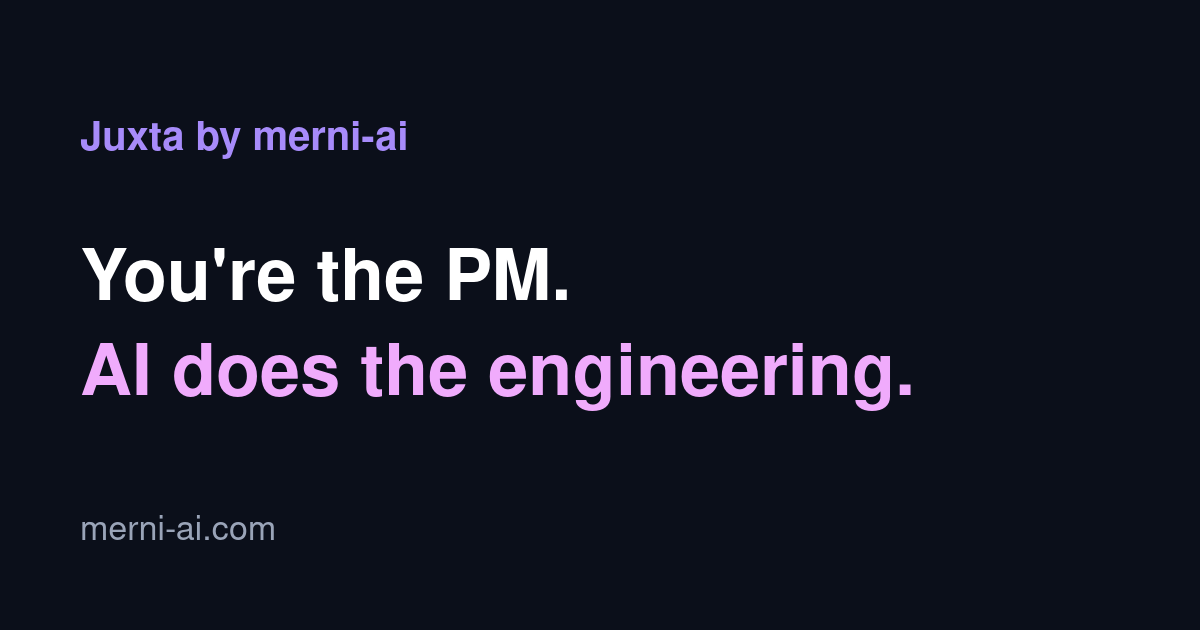
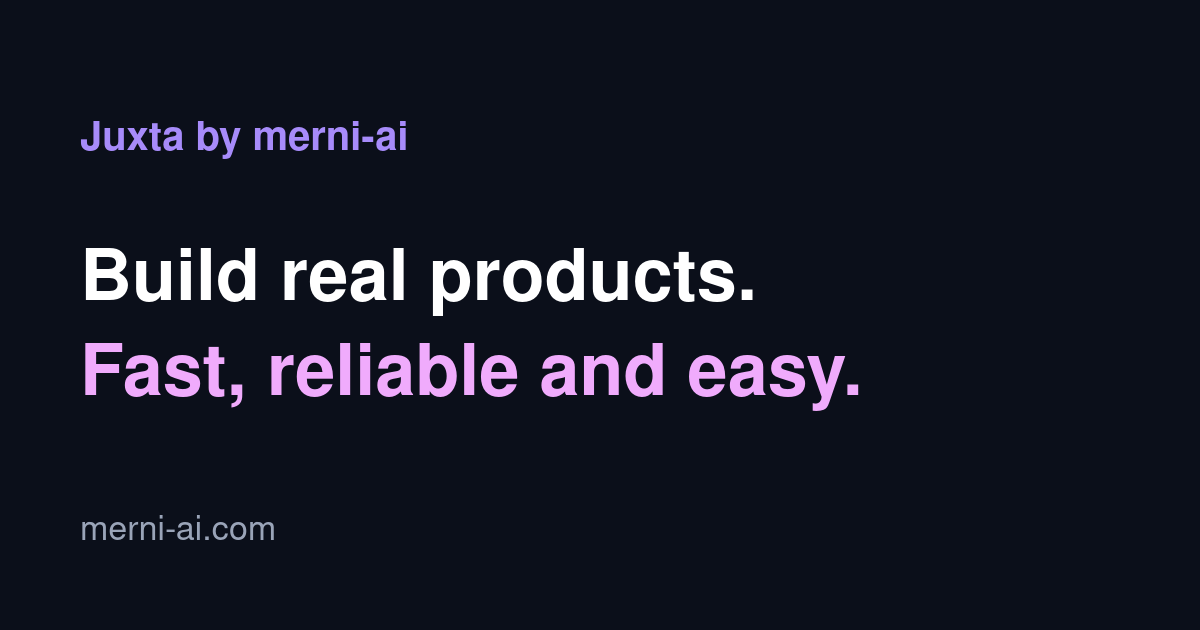
Headline: build real products, fast, reliable and easy

Changed region(s): [[0.0617, 0.5429, 0.7708, 0.6635], [0.0617, 0.3921, 0.6475, 0.5127]]

diff --git a/index.html b/index.html
@@ -3,13 +3,13 @@
 <head>
 <meta charset="utf-8">
 <meta name="viewport" content="width=device-width, initial-scale=1">
-<title>Juxta by merni-ai: you're the PM, AI does the engineering</title>
+<title>Juxta by merni-ai: build real products, fast, reliable and easy</title>
 <meta name="description" content="Juxta turns every engineer into a product manager. You write the issue and verify the result; AI workers write the code and tests, and nothing merges until the merge gate passes.">
 <meta name="theme-color" content="#0b0f1a">
 <meta property="og:type" content="website">
 <meta property="og:url" content="https://merni-ai.com/">
 <meta property="og:title" content="Juxta by merni-ai">
-<meta property="og:description" content="You're the PM. AI does the engineering: Juxta writes the code and tests, opens the pull request, and merges only what meets your standard.">
+<meta property="og:description" content="Juxta helps engineers build real products: fast, reliable and easy. Juxta writes the code and tests, opens the pull request, and merges only what meets your standard.">
 <meta property="og:image" content="https://merni-ai.com/assets/og.png">
 <meta name="twitter:card" content="summary_large_image">
 <link rel="canonical" href="https://merni-ai.com/">
@@ -35,13 +35,8 @@
   <section class="hero">
     <div class="wrap">
       <p class="pill">Juxta by merni-ai</p>
-      <h1>You're the PM.<br><span class="grad">AI does the engineering.</span></h1>
-      <p class="lead">File an issue and check the result. Juxta writes the code and the tests, opens the pull request, and merges only what meets your standard.</p>
-      <ul class="hero-stats">
-        <li><strong>450+</strong> PRs merged in its first month</li>
-        <li><strong>8</strong> AI workers in parallel</li>
-        <li><strong>8,000+</strong> tests on every merge</li>
-      </ul>
+      <h1>Build <span class="grad">real products</span>.<br>Fast, reliable and easy.</h1>
+      <p class="lead">Juxta helps engineers build real products, not just small tools. File an issue and check the result; Juxta writes the code and the tests, opens the pull request, and merges only what meets your standard.</p>
       <p class="cta">
         <a class="btn" href="#contact">Contact us</a>
         <a class="btn ghost" href="#proof">See it work</a>
@@ -64,7 +59,7 @@
         <article class="card"><h3>No standard</h3><p>Nothing stops a new change from breaking an old one, or a test from quietly disappearing.</p></article>
         <article class="card"><h3>No process</h3><p>One person, one chat, one change at a time. Reviews, dependencies and releases live in someone's head.</p></article>
       </div>
-      <p class="note">Juxta is the process that turns AI-written code into a product.</p>
+      <p class="note">Let Juxta help you build your product, not just small tools.</p>
     </div>
   </section>
 

diff --git a/styles.css b/styles.css
@@ -43,8 +43,6 @@ nav .nav-cta { color: #fff; background: var(--btn); padding: 7px 14px; border-ra
 .cta { display: flex; gap: 12px; flex-wrap: wrap; justify-content: center; margin-top: 32px; }
 .btn { display: inline-block; padding: 13px 24px; border-radius: 10px; background: var(--btn); color: #fff; text-decoration: none; font-weight: 600; }
 .btn.ghost { background: transparent; color: var(--ink); border: 1px solid var(--line); }
-.hero-stats { list-style: none; padding: 0; margin: 28px auto 0; display: flex; flex-wrap: wrap; justify-content: center; gap: 10px 28px; color: var(--muted); }
-.hero-stats strong { color: var(--ink); font-size: 1.25rem; margin-right: 4px; }
 .hero-cards { display: grid; gap: 16px; grid-template-columns: repeat(auto-fit, minmax(min(100%, 240px), 1fr)); margin-top: 48px; text-align: left; }
 .hero-cards .card { background: rgba(19, 26, 42, .75); }
 .intro { color: var(--muted); max-width: 760px; }
